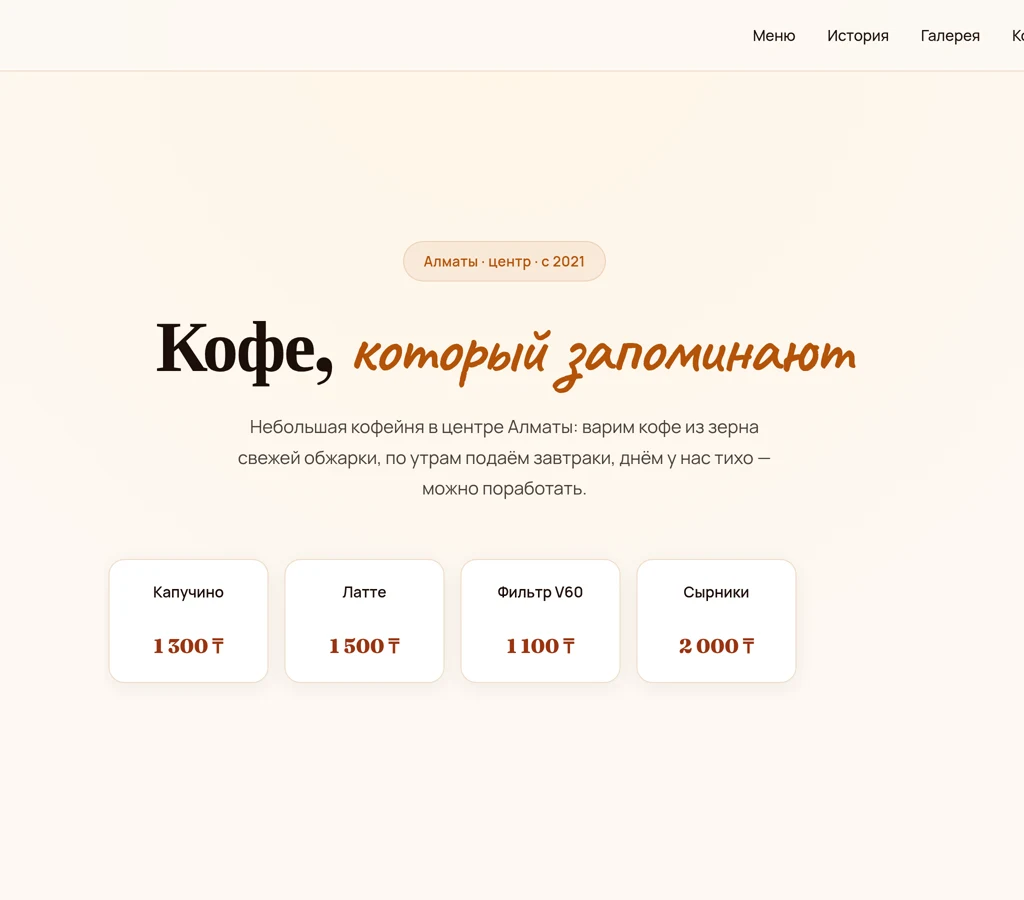
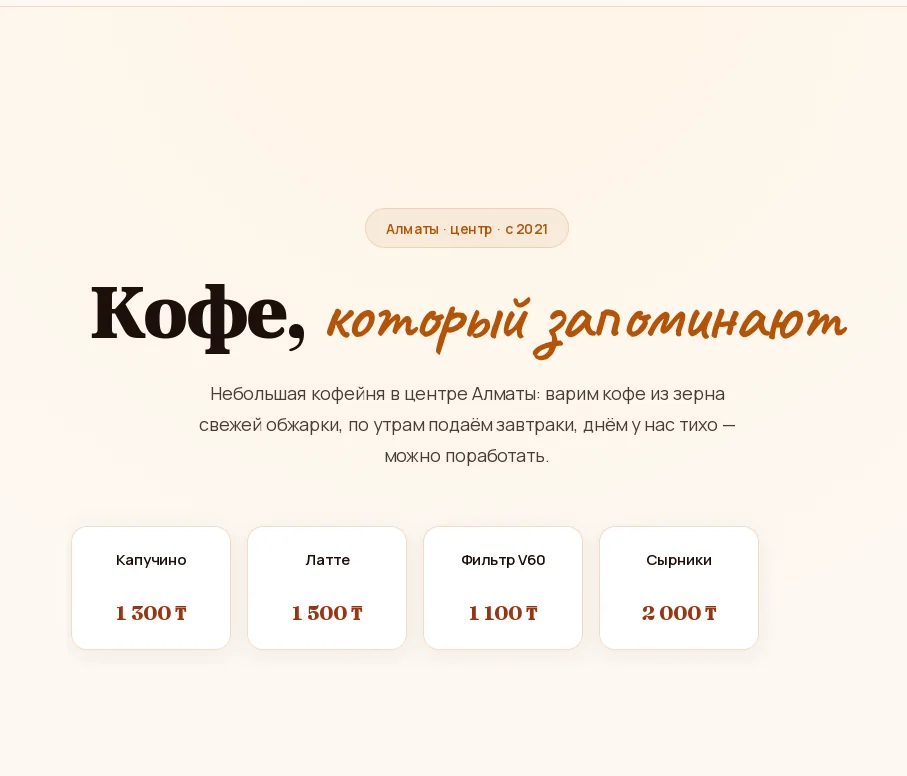
chore(work): update screenshots for cafe/barbershop/furniture, v4

diff --git a/index.html b/index.html
@@ -24,8 +24,9 @@
   <meta name="twitter:image" content="https://developer-portfolio-six-theta.vercel.app/assets/branding/og-1200x630.png">
 
   <link rel="shortcut icon" href="/favicon.ico">
-  <link rel="icon" type="image/png" sizes="32x32" href="assets/branding/favicon-32.png?v=14">
-  <link rel="apple-touch-icon" sizes="180x180" href="assets/branding/apple-touch-180.png?v=14">
+  <link rel="icon" type="image/svg+xml" href="assets/branding/favicon.svg?v=15">
+  <link rel="icon" type="image/png" sizes="32x32" href="assets/branding/favicon-32.png?v=15">
+  <link rel="apple-touch-icon" sizes="180x180" href="assets/branding/apple-touch-180.png?v=15">
   <link rel="manifest" href="manifest.webmanifest">
   <meta name="theme-color" content="#0A0A0B">
 
@@ -205,9 +206,9 @@
               <div class="work-mock">
                 <span class="browser-bar"><i></i><i></i><i></i></span>
                 <div class="work-mock-inner">
-                  <img src="assets/screenshots/cafe.webp?v=3" alt="" width="1024" height="900" loading="eager" decoding="async" data-shot="0">
-                  <img src="assets/screenshots/barbershop.webp?v=3" alt="" width="1024" height="900" loading="lazy" decoding="async" data-shot="1" hidden>
-                  <img src="assets/screenshots/furniture.webp?v=3" alt="" width="1024" height="900" loading="lazy" decoding="async" data-shot="2" hidden>
+                  <img src="assets/screenshots/cafe.webp?v=4" alt="" width="907" height="776" loading="eager" decoding="async" data-shot="0">
+                  <img src="assets/screenshots/barbershop.webp?v=4" alt="" width="1412" height="817" loading="lazy" decoding="async" data-shot="1" hidden>
+                  <img src="assets/screenshots/furniture.webp?v=4" alt="" width="1412" height="817" loading="lazy" decoding="async" data-shot="2" hidden>
                 </div>
 
                 <div class="work-progress" aria-hidden="true"><i></i></div>
@@ -218,15 +219,15 @@
       <div class="work-carousel" aria-label="Проекты — карусель">
         <div class="work-carousel-track">
           <article class="work-carousel-card">
-            <div class="work-carousel-mock"><img src="assets/screenshots/cafe.webp?v=3" alt="" width="1024" height="900" loading="lazy"></div>
+            <div class="work-carousel-mock"><img src="assets/screenshots/cafe.webp?v=4" alt="" width="907" height="776" loading="lazy"></div>
             <h3>Кофейня «Дәме»</h3><p class="mono">Лендинг · от 45 000 ₸ · 5–10 дней</p><p>Меню с ценами в ₸, отзывы, форма заявки.</p><a class="btn btn-ghost btn-sm" href="https://bess1lie.github.io/cafe-demo/" target="_blank" rel="noopener">Посмотреть сайт</a>
           </article>
           <article class="work-carousel-card">
-            <div class="work-carousel-mock"><img src="assets/screenshots/barbershop.webp?v=3" alt="" width="1024" height="900" loading="lazy"></div>
+            <div class="work-carousel-mock"><img src="assets/screenshots/barbershop.webp?v=4" alt="" width="1412" height="817" loading="lazy"></div>
             <h3>Барбершоп «Жігіт»</h3><p class="mono">Корпоративный сайт · от 75 000 ₸ · от 14 дней</p><p>Мастера, прайс, онлайн-запись.</p><a class="btn btn-ghost btn-sm" href="https://bess1lie.github.io/barbershop-demo/" target="_blank" rel="noopener">Посмотреть сайт</a>
           </article>
           <article class="work-carousel-card">
-            <div class="work-carousel-mock"><img src="assets/screenshots/furniture.webp?v=3" alt="" width="1024" height="900" loading="lazy"></div>
+            <div class="work-carousel-mock"><img src="assets/screenshots/furniture.webp?v=4" alt="" width="1412" height="817" loading="lazy"></div>
             <h3>Мастерская «Ағаш»</h3><p class="mono">Сайт с каталогом · от 100 000 ₸ · от 20 дней</p><p>Каталог, фильтры, калькулятор.</p><a class="btn btn-ghost btn-sm" href="https://bess1lie.github.io/furniture-demo/" target="_blank" rel="noopener">Посмотреть сайт</a>
           </article>
         </div>
